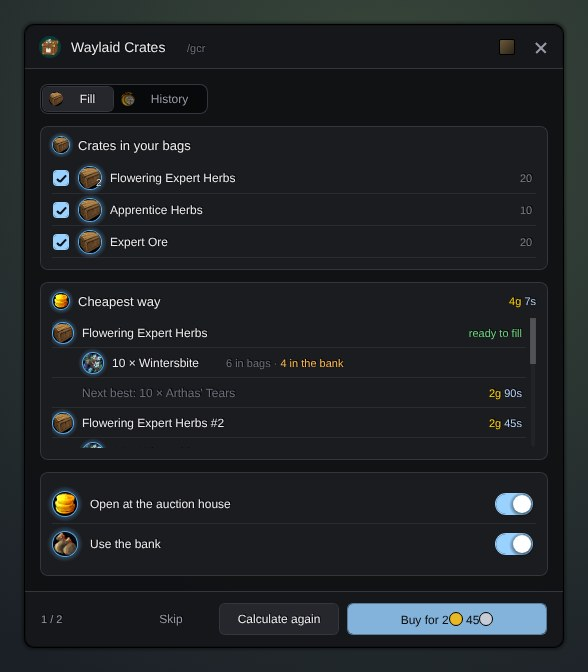
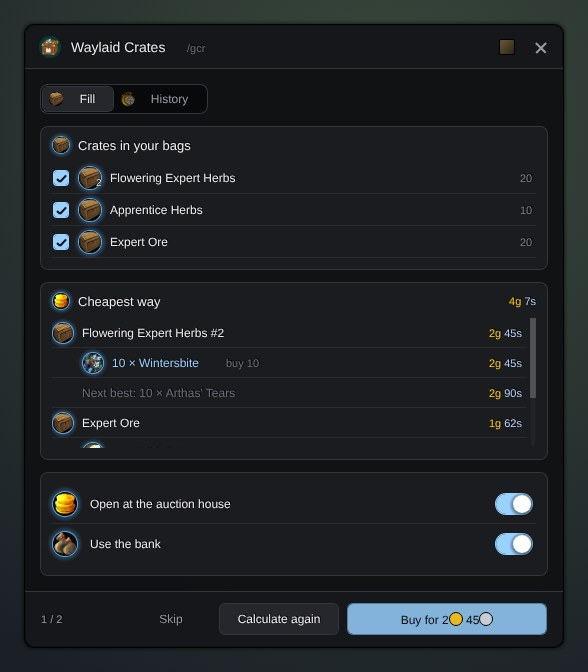
Crates 1.1.1: a crate ticks again; bought crates leave the plan
An unticked crate could not be ticked again (an 'and nil or false' that is
always false). A tick now plans again at once. The auction house plans anew
on open, and a crate the bags already fill leaves the plan and waits in the
History as ready to fill, with what was paid. Reminders 1.7.5: the same
'and nil or' kept the state ring on sample and dim icons.

Claude-Session: https://claude.ai/code/session_01HDZ3Vbx5ML5WEiwZAc4KX1

diff --git a/AGENTS.md b/AGENTS.md
@@ -89,7 +89,7 @@ Each one loads `Locales.lua`, `Core.lua`, `Skin.lua`, `UI.lua` (DungeonPrep adds
 - **Gulli-Reminders** (`/grm`, `/grm unlock|lock|reset`, `/grm item <link>`, `/grm spell <id>`; `GulliRemindersDB`: `show`, `inRest`, `track` buff key -> on/off, `weapon`, `pet`, `lockPet`, `ammo`, `shards`, `ammoMin`, `shardsMin`, `soonMin`, `anyWeapon`, `food`, `foodItem`, `where` and `whereItems` (`ns.PLACES`), `alert` (`ns.ALERTS`), `durability`, `durMin`, `bags`, `bagsMin`, `others`, `custom` (`{ id, kind = buff|count, min }` or `{ spell }`), `locked`, `size`, `alpha`, `labels`, `vertical`, `point`; defaults in `ns.DEFAULTS`, each change through `ns.SetPref`). Consumables (food, elixirs, flasks, oils) live here, not in GroupBuffs. Each icon is a `SecureActionButtonTemplate` button: a missing entry carries `act` (`type` spell, item or macro) that the left click does, set only out of combat; `buy` and `want` make a count icon buy at an open vendor (`ns.Buy`). A new kind of reminder gets its entry in `ns.Missing` (with `act` when a click can fix it), its texts in every language and a test; a new item list (`ns.FOOD`, `ns.POISONS`, `ns.WEAPON_ITEMS`) is best first. `ns.Missing` checks out of combat, alive and off a flight, and returns why it waits as a second value; a buff with less than `soonMin` minutes left counts as missing. `ns.BUFFS` lists each class's long buffs as `{ key, ids, on }` with rank-1 spell ids (any name in the group counts; `on = false` starts unwatched); a new buff gets an entry, a `BUFF_<KEY>` name in every language and a test. A racial buff carries `race` (the second value of `UnitRace`, such as `Scourge`) and is listed only for that race or when known. The window lists only the player's class (`ns.ClassBuffs`, `ns.Extras`). The panel (`GulliRemindersPanel`) shows `ns.Sample()` while it is unlocked, so the player can place it.
 - **Gulli-CraftProfit** (`/gcp`, `/gcp probe`, `/gcp gather <link>`; `GulliCraftProfitDB`: `prefs`, `vendor` item id -> price seen at a vendor, `trainer` recipe name -> cost, `gather` item id -> true (gathered, never bought), `lots` item id -> `{ t, l = { { unit price, count } } }` read at the auction; `GulliCraftProfitCharDB.profs` by profession name: `skill`, `cap`, `icon`, `recipes` with reagents, output, `learned` and `obs` skill -> colour; `current`, `mail` item id -> count in the mailbox, `run` the run started, `log` the last 10 runs). Loads `Locales.lua`, `Data.lua`, `Core.lua`, `Scan.lua`, `Skin.lua`, `UI.lua`. `Core.lua` is pure rules on a plain `state` table (no game calls), so the tests run it without a game: `ns.SellValue` (auction cut 5% or 15% neutral, the share that sells, the deposit lost on the rest, `maxSell` units of one item before the rest goes to a vendor; 0 is no limit, `ns.Limit`, and its stepper and `maxBuy`'s end in **no limit**, `UNLIMITED` in `UI.lua`), `ns.BuyOption`, `ns.Chance`/`ns.Color` (orange always, then (grey - skill) / (grey - yellow)), `ns.Estimate` (thresholds from the colours seen), `ns.Cap` (a cap the game did not give is the rank the skill is in), `ns.Plan` (per skill point the lowest expected cost plus time weight `P.w` and a small switch cost; own items count at what they would sell for; bought recipes are dropped while that improves the plan), `ns.Frontier` (plans for each weight of `ns.SWEEP`, kept when 2% faster than every cheaper one, at most `ns.LEVEL_ROUTES`), `ns.NextRun` (a route is one run: the first recipe of the whole way, planned again to there with only that recipe, `P.only`, with the whole way in `full`; the window plans again when the skill or the prices change), `ns.Legs` (the whole way as runs one after another, each from what the run before left (`after`), the same recipe twice in a row as one run, `unknown` up to the next orange skill where no known recipe raises the skill, at most `ns.MAX_LEGS`; the chips over the graph, `ns.SelectLeg`, `ns.LegRoute`), `ns.Earn` (a profit run without levelling: the one recipe whose series gains the most, crafted while a craft still gains, at most `ns.EARN_MAX` crafts with the intermediates and `maxBuy` of one item bought at the auction (`P.ahBought` in `ns.BuyOption`); `own` only from the bags and bank plus vendor reagents, else also auction buys and a bought pattern), `ns.Variants` (every route of `ns.MODES` for the tabs: the levelling ones `l1`..`l4` only while `level` is on and there is skill left; `over` when the whole way loses more than `budget`, `best` the fastest within it, which mode `auto` follows), `ns.Route` (stops: bank, auction, vendor, intermediates, crafts split by trainer visits, selling) and `ns.Changed`. A new route goes into `ns.MODES` (and `ns.EARN` when it does not level) with `VAR_`/`TILE_` texts and a test; a saved mode that is renamed gets an entry in `ns.OLD_MODES`. `Scan.lua` holds every game read: the profession window (`C_TradeSkillUI`, the classic `GetTradeSkillInfo` as fallback; a skill of 0 is read from the spellbook, and a profession at 0/0 is never saved), item counts with the bank, Auctionator `API.v1`, and prices seen at vendors and trainers. `UI.lua` shows the route as a graph of stops with game icons (`ns.STOP_ICONS`), `SHOWN_ROWS` rows high with **All stops** for the rest, and the settings column (cards of switch rows and `S.Stepper` rows, icons from `ns.OPT_ICON`, the main switches also in the hub's `options`); each setting goes through `ns.SetPref`, which rebuilds the plan and lights the changed stops. A new setting gets a default in `ns.DEFAULTS`, a control in the column, its texts in every language and a test that clicking it rebuilds the route; a new kind of stop gets a colour in `ns.STOPS`, an icon in `ns.STOP_ICONS`, its texts and a test. The client does not give recipe thresholds: `Data.lua` (generated by `tools/craftprofit/build_data.py` from Skillet-Classic's `SkillLevelData1.lua`, never edited by hand) has yellow, green and grey by recipe spell (`spell`, the modern API's recipe id) and orange to grey by made item (`item`, the classic API's key). `src` (from the QuestieDB Forever item and NPC data, the generator's second argument) has where a pattern comes from by recipe spell: `v` with its vendors and their factions, `q`, `d`; `Scan.lua` (`recipeSource`) turns it into the recipe's `src` (vendor at four times the pattern's sell price until the vendor is seen, the auction when cheaper, a recipe without a pattern from the trainer). `ns.Thresholds` moves them where the game showed another colour (the game wins) and takes `maxTrivialLevel` as grey; a recipe without data is guessed from the colours (`ns.Estimate`, `ns.GAP` from yellow to grey) and marked `guess`. A change to the threshold rules gets a case in the thresholds test. The list tabs sort by a click on a column head (`LISTS` in `UI.lua`: a new column gets its width and a sort key in the row's `keys`). Own stock comes in pools taken in order (`ns.Stock`, `take`): bags, bank, mail (`useMail`), other characters (`useAlts`, read from `GulliChoresDB` by `ns.AltCount`), gathered items (unlimited, worth what they sell for); each pool past the bank gets its stop (`STOP_MAIL`, `STOP_GATHER`). `ns.LadderCost` prices n units from the lots and `ns.ApplyLadder` raises the auction price of what a plan buys to the mean over the lots it needs (lots newer than `ns.LOTS_FRESH`), after which `ns.Recalc` plans once more. `ns.Shopping` is what the run buys at the auction (`ns.ExportShopping` makes the Auctionator list, `ns.ScanLots` reads the lots one search at a time), `ns.RunNeeds` what the run needs (the item tooltip line), `ns.NextCraft` the craft of a stop (`ns.Craft`, `ns.OpenRecipe` from the click). `ns.LogStart`/`ns.LogFinish` keep the run log. The window never plans on open: **Calculate** runs `ns.RecalcJob`, a coroutine that `ns.Tick` pauses when its frame slice is spent (the window's `ns.Calculate` resumes it each frame and shows `ns.progress`); after the first result the player's changes recalculate the same way (`ns.Rebuild`), and bag or price events only set `view.stale`. A route tile switches through `ns.PickMode` from `view.variants` without planning again; only the runs of a route not shown before are built by `ns.LegsJob` and kept in `view.legsBy`. The route tiles keep at least `TILE_MIN` wide and page with arrows when they do not fit. A new long loop in the planner calls `ns.Tick()` once per pass, and `build` in `Core.lua` fills a new view only when it is done, so the window keeps the last result meanwhile. A new own-stock pool gets a key in `ns.Stock`, its place in `take`, a stop in `ns.Route` with a colour and icon, its texts and a test.
 - **Gulli-Legacy** (`/glg`, `/glg game`; `GulliLegacyDB`: the switches in `ns.DEFAULTS` (`dungeon`, `raid`, `pvp`, `alts`, `newClass`, `tracker`, `locked`, `announce`, `alpha`, `goal` 0 or a reward level, `sort` one of `ns.SORTS`), `chars` (key -> `name`, `class`, `level`, `xp`, `skills` skill line -> rank, `rate`, `avail`, `spent`), `pins` (achievement id -> true), `skillNames`, `point`). It only reads. The Legacy challenges are the achievements that give points (`C_Traits.GetTraitCurrencyForAchievement(ns.CURRENCY, id)`), found by walking every achievement category once (`ns.Scan`); nothing is hard-coded but the ids at the top of `Core.lua` (`ns.CURRENCY`, `ns.TREES`, `ns.FACTION`, `ns.CLASS_ACH`, the activity of a category in `ns.ACTIVITY`). Criteria type 5 is a level, 7 a skill (asset = skill line), 8 another achievement (its open parts count). Points: earned is the renown of the Progress Track faction, available and spent come from the Legacy trees. `ns.Ways` gives each way to finish a challenge (a character of the class or with the profession, a new character for a missing class, this character for the rest; dungeons and raids by `ns.DUNGEON_MIN`/`ns.RAID_MIN`), each with a time guess from `ns.TIME` and `ns.LevelSeconds` (the pace from `GulliXPCharDB.s` through `ns.MeasuredRate`, else `ns.DefaultRate`); `ns.Steps` keeps the best way per challenge, fastest first (`ns.Better`); `ns.GoalPlan` takes the first steps up to a reward. A new kind of challenge gets its kind in `build`, a guess in `ns.TIME`, a line in `ns.Detail`, a tag in `ns.Tag` and a test; a new helper module goes into `ns.Helper` with a `HELP_<Key>` text. The tracker is an `S.HudList` with `S.Mover`; a new point (`ACHIEVEMENT_EARNED`) is an `S.Toast` and a `Notify`. The game's Legacy window opens through `ns.OpenInGame` (never in combat). `ns.Refine` runs after each scan and fixes what the achievement data does not say: `ns.SPECIAL` by guide kind (the level a challenge needs, `group`, a fixed time; a new special case gets an entry there and a test), and for exploring the time from the dark areas (`ns.TIME.zone` + `ns.TIME.area` each) and the zones above the player's level (`ns.ZoneLevels`, read from `C_Map.GetMapLevels` by zone name). A way for a character below the level a step needs (`minLevel`, `ns.SkillLevel` for a skill rank) adds the levelling to its time (`needLevel`, `levelEta`) instead of hiding it. A click on a step or a challenge opens its detail page (`ns.ShowDetail`, the last page, not a tab): `ns.Parts` lists what is left part by part (a part that is another achievement shows its open parts; one made of achievements again is opened up, at most three levels, so Explore Azeroth lists the zones), `ns.Guide` gives the lines of what to do by `ns.GuideKind` (a new guide gets a kind there, its `G_` texts in every language and a test), and `ns.WowheadURL` the Wowhead search to copy (the game cannot open links). `ns.Challenges` sorts the Challenges tab by `sort`: progress (done first, then the most finished), type or name.
-- **Gulli-Crates** (`/gcr`, `/gcr calc`; `GulliCratesDB`: `auto`, `bank` (defaults in `ns.DEFAULTS`), `picked` crate id -> false when unticked, `history` (filled crates, newest first, at most `ns.HISTORY_MAX`: `at`, `crate`, `item`, `n`, `paid`, `bought`, `worth`, `who`), `lots` (character -> item -> `{ n, copper }` bought here and not used yet)). Loads `Locales.lua`, `Data.lua`, `Core.lua`, `Skin.lua`, `UI.lua`. `Data.lua` (`ns.CRATES`: crate id -> level and its bundles `{ item id, count }`, any one fills the crate) is hand-made from the WoW Forever guides named at its top; the crate's own tooltip wins (`ns.ReadBundles` reads its `- 10 Wintersbite` lines by the bundle items' names in the client's language), and a bag item the table lacks counts as a crate when every such line names a known item. A new crate goes into `ns.CRATES` with a test. `ns.Plan(picks, bundles, stock, price, useBank)` is plain Lua: bags and bank cost nothing and are used once, the rest is priced from Auctionator (`ns.AuctionPrice`), and the cheapest crate-and-bundle pair of all is settled first; `ns.ShoppingList` adds up what it buys. Buying goes through the commodity auction house (`C_AuctionHouse.StartCommoditiesPurchase`, then `ConfirmCommoditiesPurchase` inside the **Buy** click): `ns.BuyClick` asks the price or confirms, both calls are protected, so each line takes two clicks (price, then buy); never call either from an event or a timer. A client without that API gets the Auctionator shopping list (`ns.ExportList`) instead. At `AUCTION_HOUSE_SHOW` with a crate in the bags and `auto` on, the window opens beside the auction window (`ns.ShowAtAH`), unless it sits in the hub. `ns.Track` runs on every bag update: a crate that leaves the bags within `MATCH_WAIT` seconds of the items of one of its bundles is a fill, logged with what `ns.TakeLots` says the auction house got for those items (a crate that leaves alone is not logged). `ns.History(period)` filters it (`ns.PERIODS`) and adds it up for the History tab. `ns.Tidy` drops a plan with no crate left in the bags, or all bought with the auction house closed; the header's refresh button runs `ns.Recheck` (plan anew, or clear).
+- **Gulli-Crates** (`/gcr`, `/gcr calc`; `GulliCratesDB`: `auto`, `bank` (defaults in `ns.DEFAULTS`), `picked` crate id -> false when unticked, `history` (filled crates, newest first, at most `ns.HISTORY_MAX`: `at`, `crate`, `item`, `n`, `paid`, `bought`, `worth`, `who`), `lots` (character -> item -> `{ n, copper }` bought here and not used yet)). Loads `Locales.lua`, `Data.lua`, `Core.lua`, `Skin.lua`, `UI.lua`. `Data.lua` (`ns.CRATES`: crate id -> level and its bundles `{ item id, count }`, any one fills the crate) is hand-made from the WoW Forever guides named at its top; the crate's own tooltip wins (`ns.ReadBundles` reads its `- 10 Wintersbite` lines by the bundle items' names in the client's language), and a bag item the table lacks counts as a crate when every such line names a known item. A new crate goes into `ns.CRATES` with a test. `ns.Plan(picks, bundles, stock, price, useBank)` is plain Lua: bags and bank cost nothing and are used once, the rest is priced from Auctionator (`ns.AuctionPrice`), and the cheapest crate-and-bundle pair of all is settled first; `ns.ShoppingList` adds up what it buys. Buying goes through the commodity auction house (`C_AuctionHouse.StartCommoditiesPurchase`, then `ConfirmCommoditiesPurchase` inside the **Buy** click): `ns.BuyClick` asks the price or confirms, both calls are protected, so each line takes two clicks (price, then buy); never call either from an event or a timer. A client without that API gets the Auctionator shopping list (`ns.ExportList`) instead. At `AUCTION_HOUSE_SHOW` with a crate in the bags and `auto` on, the window opens beside the auction window (`ns.ShowAtAH`), unless it sits in the hub. `ns.Track` runs on every bag update: a crate that leaves the bags within `MATCH_WAIT` seconds of the items of one of its bundles is a fill, logged with what `ns.TakeLots` says the auction house got for those items (a crate that leaves alone is not logged). `ns.History(period)` filters it (`ns.PERIODS`) and adds it up for the History tab. `ns.Tidy` drops a plan with no crate left in the bags, or all bought with the auction house closed; the header's refresh button runs `ns.Recheck` (plan anew, or clear). A tick on a crate goes through `ns.TogglePick`/`ns.SetPicked`, which plans again at once while a plan is shown (not while a price or a purchase waits). `AUCTION_HOUSE_SHOW` plans anew, so what was bought on an earlier visit counts as stock; a crate the stock fills leaves the plan rows (one `ready` row instead) and waits at the top of the History through `ns.Ready` (a plan without prices over every crate in the bags, paid from `ns.PeekLots`).
 - A module that acts on its own (sells, takes, rolls, accepts, declines) has a switch for each action, in its window and its saved variables, with a test that the switch stops it. Turning a whole module off is the hub's job (`ns.Switch`, through the module's `pause`).
 
 ## Task workflow

diff --git a/docs/crates/README.md b/docs/crates/README.md
@@ -19,13 +19,14 @@ A Waylaid Crate takes any one bundle from its list: 10 Wintersbite, 10 Firebloom
 ## Features
 
 - **Opens at the auction house.** Carry a crate and open the auction house: the window opens beside it. A switch turns this off.
-- **Pick the crates.** Every crate in your bags is listed. Untick the ones you want to keep for later.
+- **Pick the crates.** Every crate in your bags is listed. Untick the ones you want to keep for later, and tick them again at any time: the price follows at once.
 - **The cheapest bundle.** **Calculate** prices every bundle of every crate. What you already have costs nothing; the rest is priced from Auctionator's database.
 - **Your bank counts.** Items in your bank are used too, and the list says so in orange: take them out before you fill the crate. A switch turns this off.
 - **Several crates at once.** Your stock is shared fairly: a stack that fills one crate is not split over two.
 - **Buy what is missing.** Press **Buy** to go through the list. For each line, the first press asks the auction house for the real price and shows it on the button. The second press buys.
 - **No surprises.** If the real price is much higher than Auctionator's, the line turns orange. Press **Skip** to leave a line out.
 - **History.** The History tab lists every crate you filled: which bundle, when, and what you paid at the auction house for it. Filter by today, 7 days or all, with the totals on top.
+- **Bought is bought.** A crate whose items are already in your bags leaves the plan and waits at the top of the History as ready to fill, with what you paid. When you come back to the auction house, the plan is made again, so nothing is offered twice.
 - **Refresh.** The round arrow at the top looks at your bags again and calculates anew. When no crate is left, or all is bought and you left the auction house, the old plan is cleared by itself.
 - **All 30 crates.** Apprentice, Journeyman, Expert and Artisan: herbs, ore, textiles, curiosities, fabrics, ingots and parts.
 
